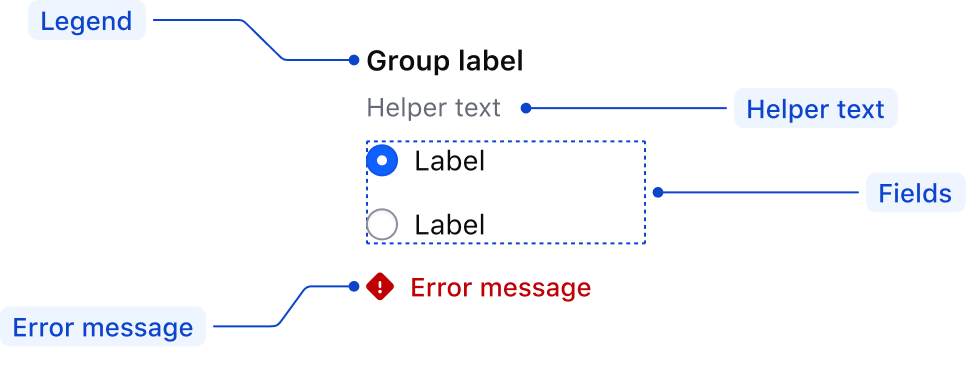
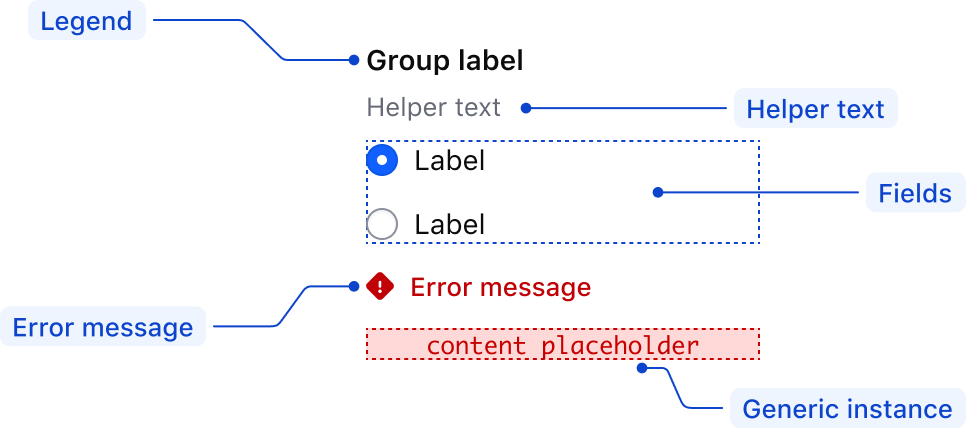
Updated docs to display 'generic content' plus updated anatomy to reflect these additions in both the field and group versions.

diff --git a/website/docs/components/form/radio/partials/specifications/anatomy.md b/website/docs/components/form/radio/partials/specifications/anatomy.md
@@ -10,6 +10,7 @@
 | Label             | Required                                                    |
 | Helper text       | Optional                                                    |
 | Error message     | Triggered by system                                         |
+| Generic content   | Optional                                                    |
 
 ### Form::Radio::Group
 
@@ -21,3 +22,4 @@
 | Helper text       | Optional                                                    |
 | Fields            | At least one is required                                    |
 | Error message     | Triggered by system                                         |
+| Generic content   | Optional                                                    |

diff --git a/website/docs/components/form/radio/partials/guidelines/guidelines.md b/website/docs/components/form/radio/partials/guidelines/guidelines.md
@@ -73,6 +73,12 @@ For shorter, simpler forms (e.g., login/signup and feedback requests), indicate 
 
 For error validation recommendations, refer to the [Form patterns](/patterns/form-patterns?tab=validation) documentation.
 
+## Generic content
+
+Both the radio field and group allow for generic content to be appended below all other sub-components in both the horizontal and vertical variants.
+
+![Showing generic instances appending below the radio field and group types and vertical and horizontal variants](/assets/components/form/radio/radio-generic-instance.png)
+
 ## Content
 
 For general content recommendations, refer to the [Primitives](/components/form/primitives) documentation.
